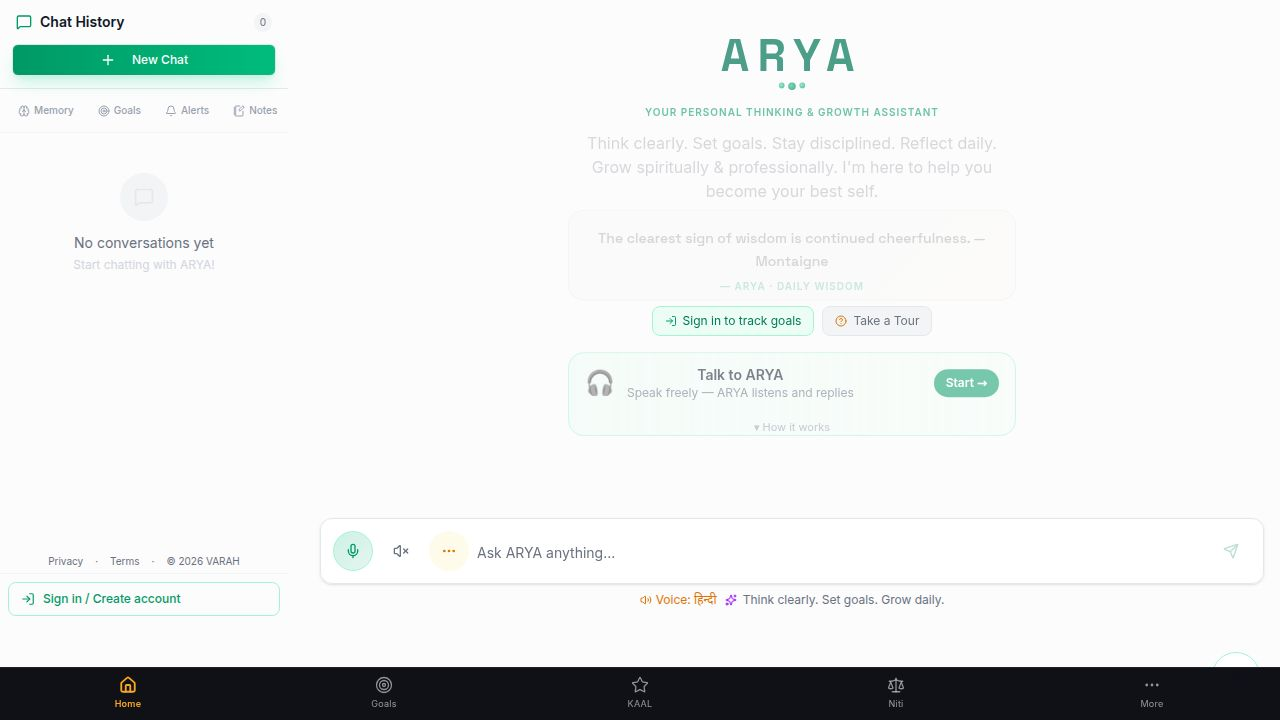
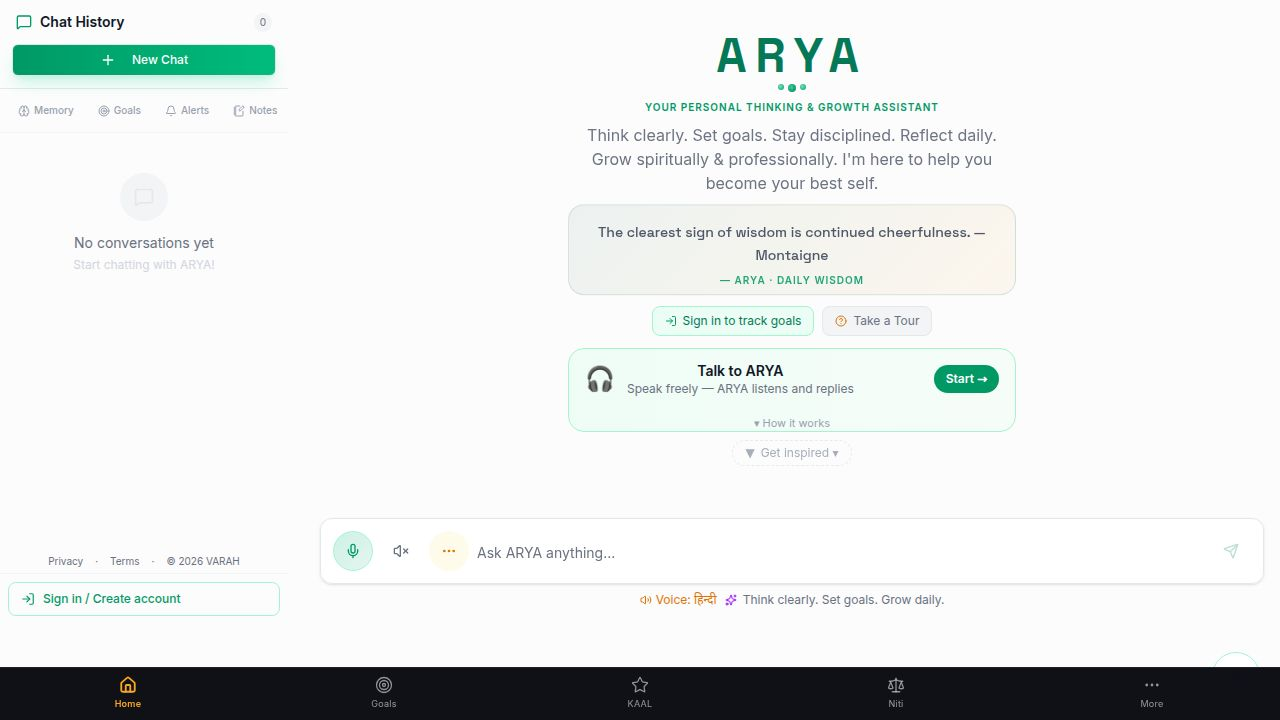
Fix mobile navigation bar appearing on desktop screens
Hide the bottom navigation bar on desktop/laptop viewports by adding a responsive wrapper and adjust the page height calculation to utilize the full viewport height on larger screens.

Replit-Commit-Author: Agent
Replit-Commit-Session-Id: 7b145150-db39-47d4-af7e-e2ff8b1b403d
Replit-Commit-Checkpoint-Type: full_checkpoint
Replit-Commit-Event-Id: ac41c636-0992-46cf-b367-ab6642d2d3d9
Replit-Commit-Screenshot-Url: https://storage.googleapis.com/screenshot-production-us-central1/9228cbc9-64ab-41d4-8aa4-89fc651b90ae/7b145150-db39-47d4-af7e-e2ff8b1b403d/y2MN1RK
Replit-Helium-Checkpoint-Created: true

diff --git a/client/src/App.tsx b/client/src/App.tsx
@@ -118,7 +118,13 @@ function UniversalBottomNav() {
   const isAdmin = ADMIN_PATHS.some(p => location === p || location.startsWith(p + "/"));
   const noNav = isAdmin || location.startsWith("/reflection/");
   if (noNav) return null;
-  return <BottomNav />;
+  // Bottom nav is mobile-only — hidden on md (768px+) screens where the
+  // left sidebar already provides navigation.
+  return (
+    <div className="md:hidden">
+      <BottomNav />
+    </div>
+  );
 }
 
 function Router() {

diff --git a/client/src/pages/AryaChat.tsx b/client/src/pages/AryaChat.tsx
@@ -3629,7 +3629,7 @@ export default function AryaChat() {
   const currentLang = DEFAULT_LANGUAGES.find(l => l.code === selectedLanguage);
 
   return (
-    <div className="flex h-[calc(100dvh-5rem)] md:h-[calc(100dvh-6rem)] gap-0 md:gap-4 relative" data-testid="page-arya-chat">
+    <div className="flex h-[calc(100dvh-5rem)] md:h-[100dvh] gap-0 md:gap-4 relative" data-testid="page-arya-chat">
       <AnimatePresence>
         {showSidebar && (
           <motion.div
